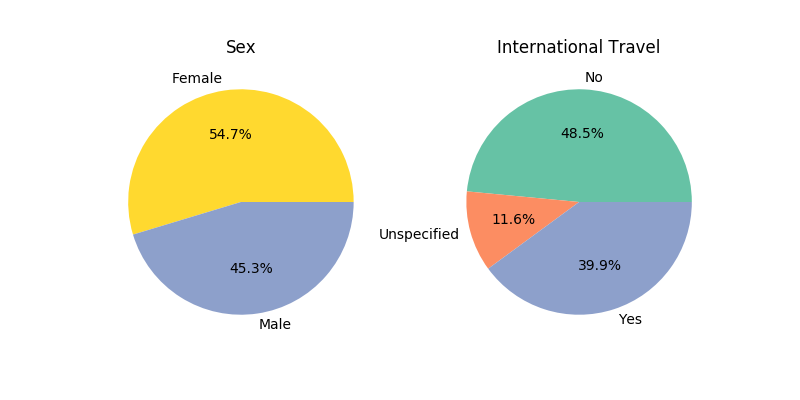
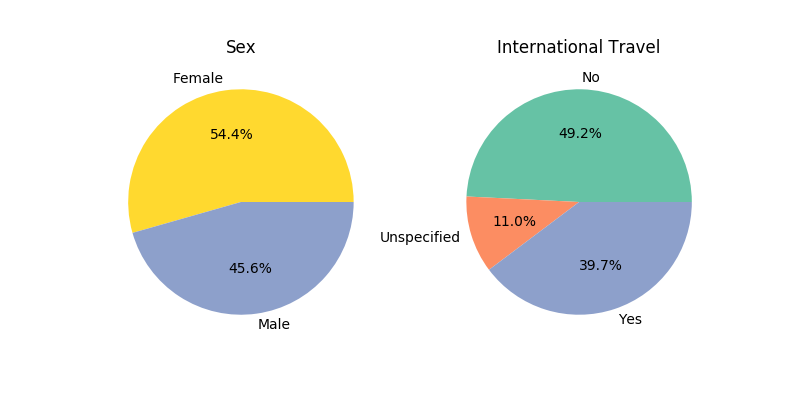
Updated data

diff --git a/NZModel/nz_data.py b/NZModel/nz_data.py
@@ -35,7 +35,8 @@ header=3
 #filename = "covid-casedetails-9april2020.xlsx"
 #filename = "covid-casedetails-10april2020.xlsx"
 #filename = "case-list-11-april-2020-for-web.xlsx"
-filename = "case-list-12-april-2020-for-web.xlsx"
+#filename = "case-list-12-april-2020-for-web.xlsx"
+filename = "covid-case-list-13april2020.xlsx"
 
 # Confirmed Infection Cases
 data_conf = pd.read_excel(filename, header=header)
@@ -85,6 +86,9 @@ def plot_new():
     plt.xlabel("Date")
     plt.ylabel("New Cases per day")
     plt.title("NZ COIVD-19 Cases")
+    
+    plt.xticks(rotation=20)
+    plt.tight_layout()
 
     plt.savefig("NZCasesPerDay.png")
 
